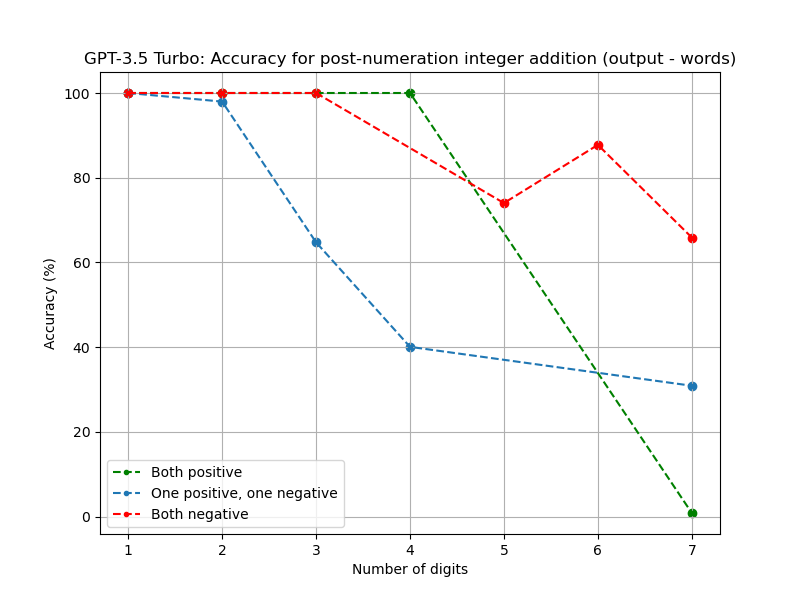
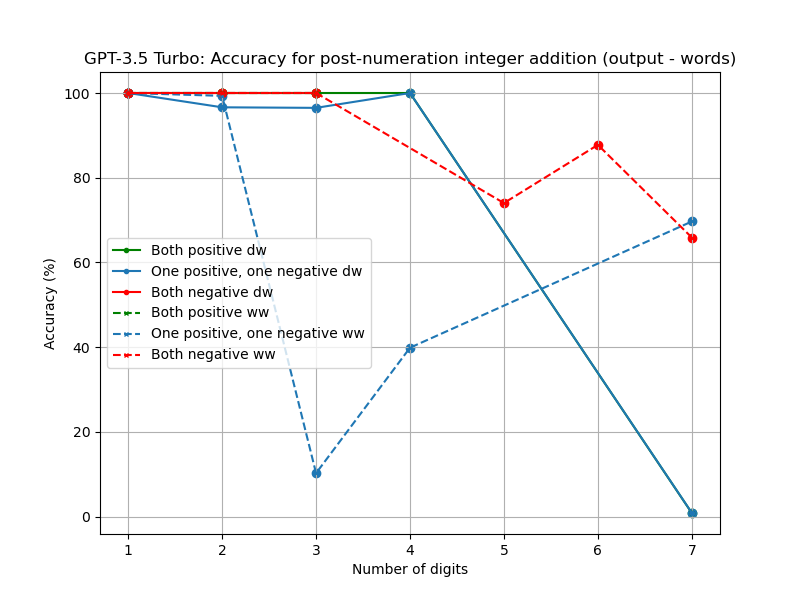
modify plots

diff --git a/code/eval_gpt/plots.py b/code/eval_gpt/plots.py
@@ -798,33 +798,50 @@ def plot_numeration_int_addition_df(responses_path):
             a, b, answer = word2num(a), word2num(b), int(answer)
             num_digits = get_num_digits(a)
             if a >= 0 and b >= 0:
-                correct_df[0, 0, num_digits-1] += is_correct(a, b, answer)
-                total_df[0, 0, num_digits-1] += 1
+                correct_df[0, 1, num_digits-1] += is_correct(a, b, answer)
+                total_df[0, 1, num_digits-1] += 1
             elif a < 0 and b < 0:
-                correct_df[2, 0, num_digits-1] += is_correct(a, b, answer)
-                total_df[2, 0, num_digits-1] += 1
+                correct_df[2, 1, num_digits-1] += is_correct(a, b, answer)
+                total_df[2, 1, num_digits-1] += 1
             else:
-                correct_df[1, 0, num_digits-1] += is_correct(a, b, answer)
-                total_df[1, 0, num_digits-1] += 1
+                correct_df[1, 1, num_digits-1] += is_correct(a, b, answer)
+                total_df[1, 1, num_digits-1] += 1
             continue
 
     
     #plot the accuracy for each case
     plt.figure(figsize=(8, 6))
 
+    # plot for cases where one number is in word form
     both_positive_x_vals = np.where(total_df[0, 0] > 0)[0] + 1
     both_positive_y_vals = correct_df[0, 0][total_df[0, 0] > 0]*100/total_df[0, 0][total_df[0, 0] > 0]
-    plt.plot(both_positive_x_vals, both_positive_y_vals, marker='o', ms=3, linestyle='--', color='green', label='Both positive')
+    plt.plot(both_positive_x_vals, both_positive_y_vals, marker='o', ms=3, color='green', label='Both positive dw')
     plt.scatter(both_positive_x_vals, both_positive_y_vals, color="green")
 
     one_negative_x_vals = np.where(total_df[1, 0] > 0)[0] + 1
     one_negative_y_vals = correct_df[1, 0][total_df[1, 0] > 0]*100/total_df[1, 0][total_df[1, 0] > 0]
-    plt.plot(one_negative_x_vals, one_negative_y_vals, marker='o', ms=3, linestyle='--', color='#1f77b4', label='One positive, one negative')
+    plt.plot(one_negative_x_vals, one_negative_y_vals, marker='o', ms=3, color='#1f77b4', label='One positive, one negative dw')
     plt.scatter(one_negative_x_vals, one_negative_y_vals, color="#1f77b4")
 
     both_negative_x_vals = np.where(total_df[2, 0] > 0)[0] + 1
     both_negative_y_vals = correct_df[2, 0][total_df[2, 0] > 0]*100/total_df[2, 0][total_df[2, 0] > 0]
-    plt.plot(both_negative_x_vals, both_negative_y_vals, marker='o', ms=3, linestyle='--', color='red', label='Both negative')
+    plt.plot(both_negative_x_vals, both_negative_y_vals, marker='o', ms=3, color='red', label='Both negative dw')
+    plt.scatter(both_negative_x_vals, both_negative_y_vals, color="red")
+
+    # plot for cases where both numbers are in word form
+    both_positive_x_vals = np.where(total_df[0, 1] > 0)[0] + 1
+    both_positive_y_vals = correct_df[0, 1][total_df[0, 1] > 0]*100/total_df[0, 1][total_df[0, 1] > 0]
+    plt.plot(both_positive_x_vals, both_positive_y_vals, marker='x', ms=3, linestyle='--', color='green', label='Both positive ww')
+    plt.scatter(both_positive_x_vals, both_positive_y_vals, color="green")
+
+    one_negative_x_vals = np.where(total_df[1, 1] > 0)[0] + 1
+    one_negative_y_vals = correct_df[1, 1][total_df[1, 1] > 0]*100/total_df[1, 1][total_df[1, 1] > 0]
+    plt.plot(one_negative_x_vals, one_negative_y_vals, marker='x', ms=3, linestyle='--', color='#1f77b4', label='One positive, one negative ww')
+    plt.scatter(one_negative_x_vals, one_negative_y_vals, color="#1f77b4")
+
+    both_negative_x_vals = np.where(total_df[2, 1] > 0)[0] + 1
+    both_negative_y_vals = correct_df[2, 1][total_df[2, 1] > 0]*100/total_df[2, 1][total_df[2, 1] > 0]
+    plt.plot(both_negative_x_vals, both_negative_y_vals, marker='x', ms=3, linestyle='--', color='red', label='Both negative ww')
     plt.scatter(both_negative_x_vals, both_negative_y_vals, color="red")
 
     plt.xticks(np.arange(1, 7))
@@ -869,14 +886,14 @@ def plot_numeration_int_addition_wf(responses_path):
             b = word2num(b)
             num_digits = get_num_digits(a)
             if a >= 0 and b >= 0:
-                correct_df[0, 1, num_digits-1] += is_correct(a, b, answer)
-                total_df[0, 1, num_digits-1] += 1
+                correct_df[0, 0, num_digits-1] += is_correct(a, b, answer)
+                total_df[0, 0, num_digits-1] += 1
             elif a < 0 and b < 0:
-                correct_df[2, 1, num_digits-1] += is_correct(a, b, answer)
-                total_df[2, 1, num_digits-1] += 1
+                correct_df[2, 0, num_digits-1] += is_correct(a, b, answer)
+                total_df[2, 0, num_digits-1] += 1
             else:
-                correct_df[1, 1, num_digits-1] += is_correct(a, b, answer)
-                total_df[1, 1, num_digits-1] += 1
+                correct_df[1, 0, num_digits-1] += is_correct(a, b, answer)
+                total_df[1, 0, num_digits-1] += 1
             continue
 
         match = re.search(r'([a-zA-Z, -]+) \+ ([-+]?\d+) = ([a-zA-Z, -]+)$', response)
@@ -886,14 +903,14 @@ def plot_numeration_int_addition_wf(responses_path):
             a, b, answer = word2num(a), int(b), word2num(answer)
             num_digits = get_num_digits(a)
             if a >= 0 and b >= 0:
-                correct_df[0, 1, num_digits-1] += is_correct(a, b, answer)
-                total_df[0, 1, num_digits-1] += 1
+                correct_df[0, 0, num_digits-1] += is_correct(a, b, answer)
+                total_df[0, 0, num_digits-1] += 1
             elif a < 0 and b < 0:
-                correct_df[2, 1, num_digits-1] += is_correct(a, b, answer)
-                total_df[2, 1, num_digits-1] += 1
+                correct_df[2, 0, num_digits-1] += is_correct(a, b, answer)
+                total_df[2, 0, num_digits-1] += 1
             else:
-                correct_df[1, 1, num_digits-1] += is_correct(a, b, answer)
-                total_df[1, 1, num_digits-1] += 1
+                correct_df[1, 0, num_digits-1] += is_correct(a, b, answer)
+                total_df[1, 0, num_digits-1] += 1
             continue
 
         match = re.search(r'([a-zA-Z, -]+) \+ ([a-zA-Z, -]+) = ([a-zA-Z, -]+)$', response)
@@ -914,21 +931,42 @@ def plot_numeration_int_addition_wf(responses_path):
                 total_df[1, 1, num_digits-1] += 1
             continue
 
+    #plot the accuracy for each case
     plt.figure(figsize=(8, 6))
 
+    # plot for cases where one number is in word form
+    both_positive_x_vals = np.where(total_df[0, 0] > 0)[0] + 1
+    both_positive_y_vals = correct_df[0, 0][total_df[0, 0] > 0]*100/total_df[0, 0][total_df[0, 0] > 0]
+    plt.plot(both_positive_x_vals, both_positive_y_vals, marker='o', ms=3, color='green', label='Both positive dw')
+    plt.scatter(both_positive_x_vals, both_positive_y_vals, color="green")
+
+    one_negative_x_vals = np.where(total_df[1, 0] > 0)[0] + 1
+    one_negative_y_vals = correct_df[1, 0][total_df[1, 0] > 0]*100/total_df[1, 0][total_df[1, 0] > 0]
+    plt.plot(one_negative_x_vals, one_negative_y_vals, marker='o', ms=3, color='#1f77b4', label='One positive, one negative dw')
+    plt.scatter(one_negative_x_vals, one_negative_y_vals, color="#1f77b4")
+
+    both_negative_x_vals = np.where(total_df[2, 0] > 0)[0] + 1
+    both_negative_y_vals = correct_df[2, 0][total_df[2, 0] > 0]*100/total_df[2, 0][total_df[2, 0] > 0]
+    plt.plot(both_negative_x_vals, both_negative_y_vals, marker='o', ms=3, color='red', label='Both negative dw')
+    plt.scatter(both_negative_x_vals, both_negative_y_vals, color="red")
+
+    # plot for cases where both numbers are in word form
     both_positive_x_vals = np.where(total_df[0, 1] > 0)[0] + 1
     both_positive_y_vals = correct_df[0, 1][total_df[0, 1] > 0]*100/total_df[0, 1][total_df[0, 1] > 0]
-    plt.plot(both_positive_x_vals, both_positive_y_vals, marker='o', ms=3, linestyle='--', color='green', label='Both positive')
+    print("In both positive ww (digits): ", both_positive_x_vals, both_positive_y_vals)
+    plt.plot(both_positive_x_vals, both_positive_y_vals, marker='x', ms=3, linestyle='--', color='green', label='Both positive ww')
     plt.scatter(both_positive_x_vals, both_positive_y_vals, color="green")
 
     one_negative_x_vals = np.where(total_df[1, 1] > 0)[0] + 1
     one_negative_y_vals = correct_df[1, 1][total_df[1, 1] > 0]*100/total_df[1, 1][total_df[1, 1] > 0]
-    plt.plot(one_negative_x_vals, one_negative_y_vals, marker='o', ms=3, linestyle='--', color='#1f77b4', label='One positive, one negative')
+    print("In one positive, one negative ww (digits): ", one_negative_x_vals, one_negative_y_vals)
+    plt.plot(one_negative_x_vals, one_negative_y_vals, marker='x', ms=3, linestyle='--', color='#1f77b4', label='One positive, one negative ww')
     plt.scatter(one_negative_x_vals, one_negative_y_vals, color="#1f77b4")
 
     both_negative_x_vals = np.where(total_df[2, 1] > 0)[0] + 1
     both_negative_y_vals = correct_df[2, 1][total_df[2, 1] > 0]*100/total_df[2, 1][total_df[2, 1] > 0]
-    plt.plot(both_negative_x_vals, both_negative_y_vals, marker='o', ms=3, linestyle='--', color='red', label='Both negative')
+    print("In both negative ww (digits): ", both_negative_x_vals, both_negative_y_vals)
+    plt.plot(both_negative_x_vals, both_negative_y_vals, marker='x', ms=3, linestyle='--', color='red', label='Both negative ww')
     plt.scatter(both_negative_x_vals, both_negative_y_vals, color="red")
 
     plt.xticks(np.arange(1, 8))
@@ -1064,9 +1102,9 @@ if __name__ == "__main__":
     #plot_for_list_min("./list_min_responses.txt")
     #plot_for_list_max("./list_max_responses.txt")
     #plot_for_list_sort("./list_sort_responses.txt")
-    #plot_numeration_int_addition_df("./numeration_int_addn_responses_df.txt")
-    #plot_numeration_int_addition_wf("./numeration_int_addn_responses_wf.txt")
+    plot_numeration_int_addition_df("./numeration_int_addn_responses_df.txt")
+    plot_numeration_int_addition_wf("./numeration_int_addn_responses_wf.txt")
     #plot_diff_order_int_addition_results("./diff_order_int_addition_responses.txt")
-    plot_div_accuracy("./division_responses4.txt", sig_figs=4)
-    plot_div_accuracy("./division_responses8.txt", sig_figs=8)
-    plot_div_accuracy("./division_responses12.txt", sig_figs=12)
+    #plot_div_accuracy("./division_responses4.txt", sig_figs=4)
+    #plot_div_accuracy("./division_responses8.txt", sig_figs=8)
+    #plot_div_accuracy("./division_responses12.txt", sig_figs=12)

diff --git a/code/eval_gpt/plot_primality.py b/code/eval_gpt/plot_primality.py
@@ -2,7 +2,7 @@ import matplotlib.pyplot as plt
 import numpy as np
 import json
 import re
-from sklearn.metrics import confusion_matrix, ConfusionMatrixDisplay
+from sklearn.metrics import confusion_matrix, ConfusionMatrixDisplay, f1_score, accuracy_score, precision_score, recall_score
 
 def plot_cm_primality(y_true, y_pred, title, path):
     
@@ -102,7 +102,7 @@ def plot_acc_vs_number(responses_array, primes, composites, title, path):
         acc[i] = correct_sum * 100/total_sum
     
     #make a bar plot
-    plt.figure(figsize=(8, 6))
+    plt.figure(figsize=(8, 8))
     plt.bar(range(1, 21), acc, tick_label=[f"{bins[i]}-{bins[i+1]}" for i in range(20)], color='orange')
     plt.xlabel("Number")
     plt.ylabel("Accuracy (%)")
@@ -195,6 +195,17 @@ if __name__ == "__main__":
             y_true_composite.append(1)
             y_pred_composite.append(response[1])
 
+    print("For ask prime, the accuracy, precision, recall and f1 score are:")
+    print("Accuracy:", accuracy_score(y_true_prime, y_pred_prime))
+    print("Precision:", precision_score(y_true_prime, y_pred_prime))
+    print("Recall:", recall_score(y_true_prime, y_pred_prime))
+    print("F1 Score:", f1_score(y_true_prime, y_pred_prime))
+
+    print("For ask composite, the accuracy, precision, recall and f1 score are:")
+    print("Accuracy:", accuracy_score(y_true_composite, y_pred_composite))
+    print("Precision:", precision_score(y_true_composite, y_pred_composite))
+    print("Recall:", recall_score(y_true_composite, y_pred_composite))
+    print("F1 Score:", f1_score(y_true_composite, y_pred_composite))
     plot_cm_primality(y_true_prime, y_pred_prime, "Confusion Matrix when asking if the number is prime", "./primality_plots/cm_prime.png")
     plot_cm_primality(y_true_composite, y_pred_composite, "Confusion Matrix when asking if the number is composite", "./primality_plots/cm_composite.png")
     #plot_acc_with_digits(responses_array_prime, primes, composites, "Accuracy as a function of number of digits when asking if the number is prime", "./primality_plots/acc_prime.png")
@@ -249,12 +260,13 @@ if __name__ == "__main__":
         else:
             y_pred_factors.append(0)
         
+        """
         if y_pred_factors[-1] != y_true_factors[-1]:
             print("Number:", num)
             print("Factors:", factors)
             print("True:", y_true_factors[-1])
             print("Predicted:", y_pred_factors[-1])
-            print("\n\n")
+            print("\n\n")"""
 
     #count the toal number of primes and composites
     num_primes = 0
@@ -279,6 +291,7 @@ if __name__ == "__main__":
 
 
     plot_cm_primality(y_true_factors, y_pred_factors, "Confusion Matrix when deducing primality from factors", "./primality_plots/cm_factors.png")
+    
 
         
         

diff --git a/code/eval_gpt/get_factors.py b/code/eval_gpt/get_factors.py
@@ -53,7 +53,7 @@ for _, batch_prompt in enumerate(batch_prompts):
 
     response = client.chat.completions.create(model="gpt-3.5-turbo", messages=
             [{"role": "user", "content": "You are a math assistant. I will ask you some questions. Please answer in the correct format. For example, if I ask 'List the factors of 15?', you should answer 'Factors of 15 are [1, 3, 5, 15]'. Each question is in a separate line. Please return each answer in a separate line."},
-            {"role" : "user", "content" : "".join([f"List the factors of {prompt}?\n" for prompt in batch_prompt])}])
+            {"role" : "user", "content" : "".join([f"List the factors of {prompt}.\n" for prompt in batch_prompt])}])
 
     responses = response.choices[0].message.content.split("\n")
 
